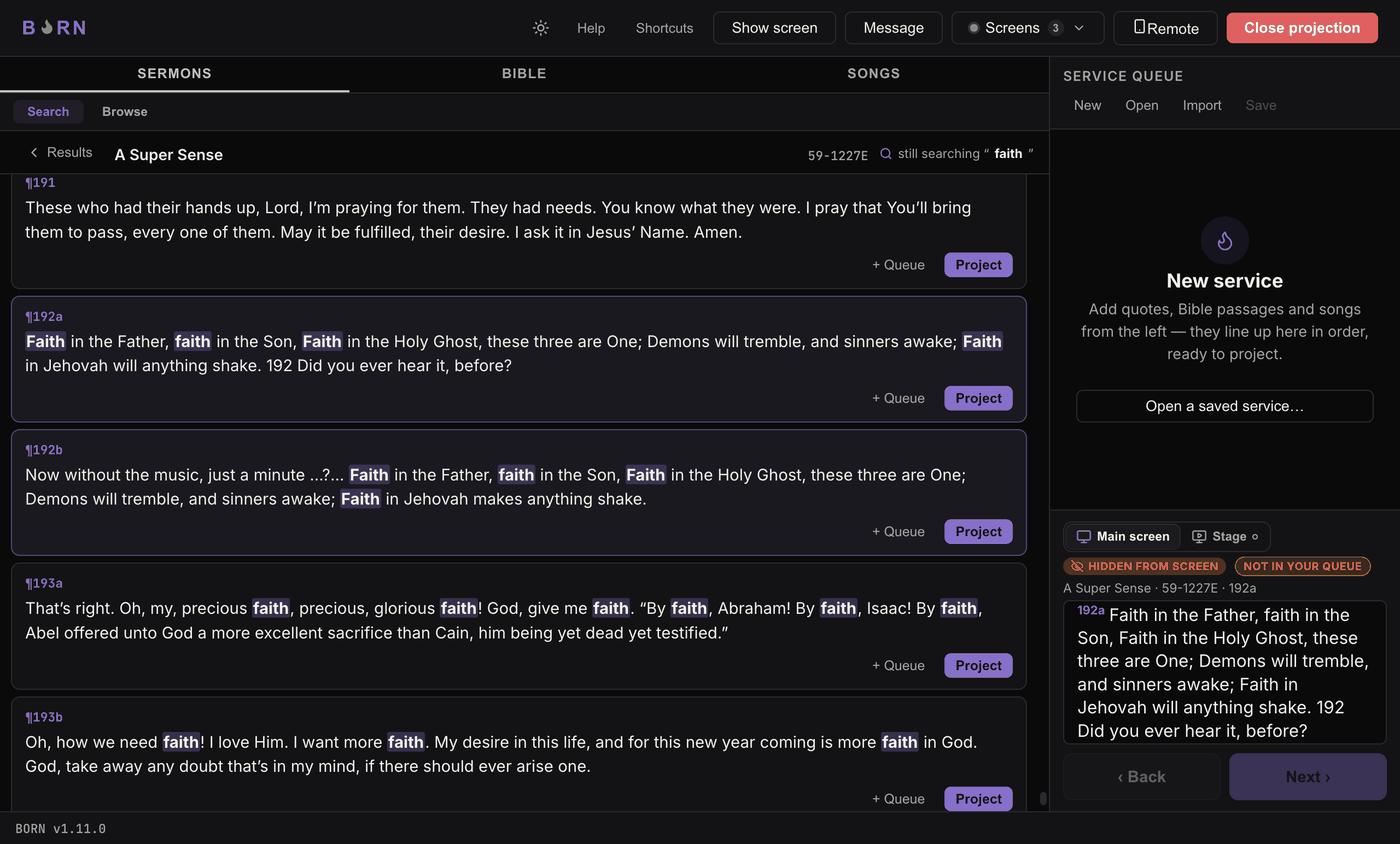
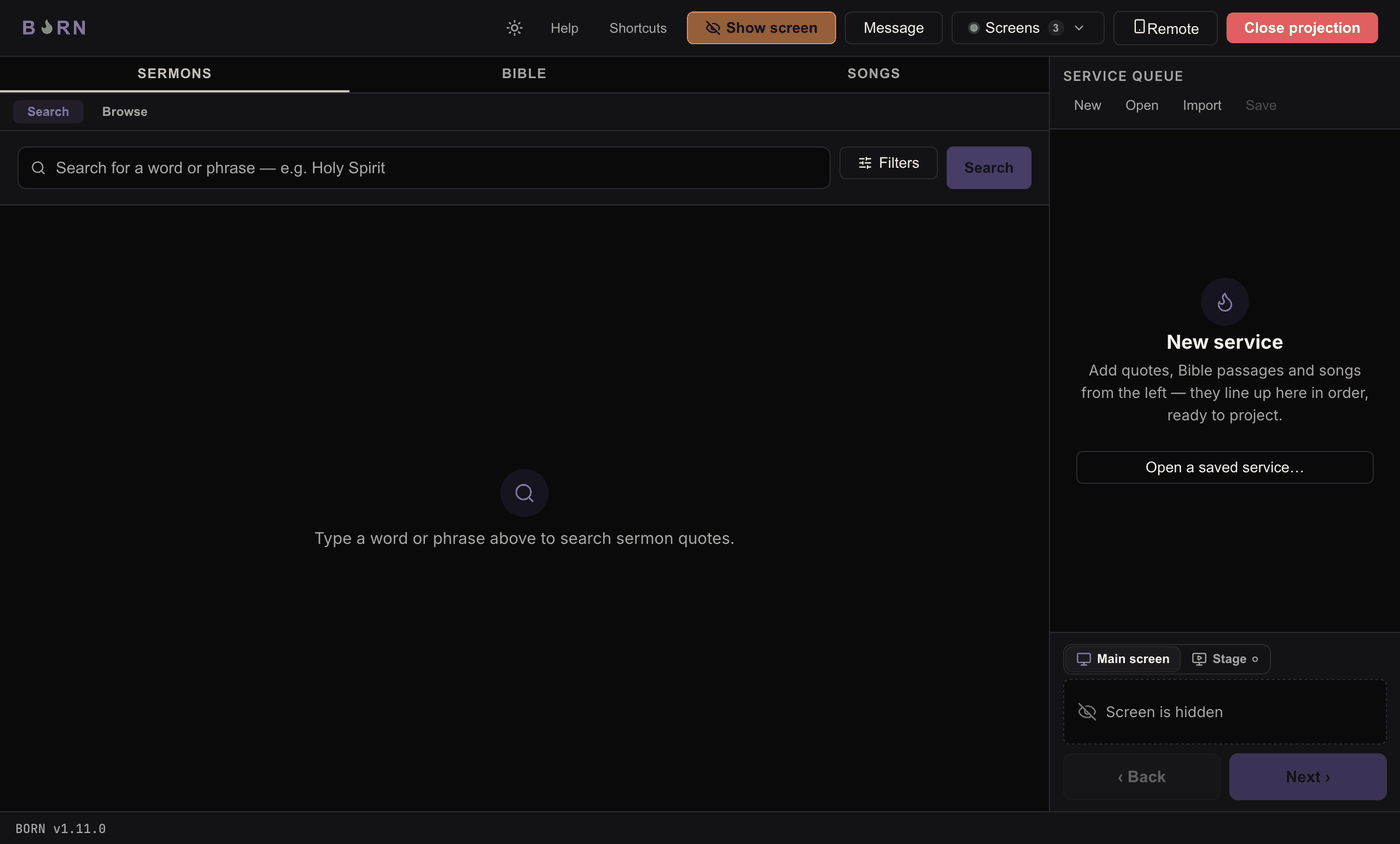
Fix: Hide/Show-screen button now actually turns amber while hidden
.btn-toggle-on was being silently overridden by the later,
equal-specificity .btn-secondary rule, so the button never visually
changed color — only its label did (flagged as a known bug while
writing the manual). Fixed by combining the selectors
(.btn-secondary.btn-toggle-on) so it wins regardless of source order.

Also adds an Eye/EyeOff icon alongside the existing label change, so
the hidden state is never color-only — label, icon, and color all
change together. Verified visually in the running app in both states.

Updates the manual pages that show this button (blank-clear.md,
cheat-sheet.md, troubleshooting/service-day.md) and retakes the two
screenshots of it, since the old ones showed the pre-fix (non-amber)
state and the text had a "not yet verified" caveat that no longer
applies.

diff --git a/src/renderer/src/App.tsx b/src/renderer/src/App.tsx
@@ -1,5 +1,5 @@
 import { useState, useCallback, useEffect, useMemo, useRef } from 'react'
-import { Sun, Moon, Flame } from 'lucide-react'
+import { Sun, Moon, Flame, Eye, EyeOff } from 'lucide-react'
 import SearchBar from './components/SearchBar'
 import ResultsList from './components/ResultsList'
 import SermonFollowView from './components/SermonFollowView'
@@ -1277,10 +1277,15 @@ export default function App() {
           {projectionOpen && (
             <>
               <button
-                className={`btn-secondary${isScreenBlanked ? ' btn-toggle-on' : ''}`}
+                className={`btn-secondary btn-icon-text${isScreenBlanked ? ' btn-toggle-on' : ''}`}
                 onClick={handleToggleBlank}
                 title="Black out the congregation screen (Esc)"
               >
+                {isScreenBlanked ? (
+                  <EyeOff width={14} height={14} strokeWidth={2.2} aria-hidden="true" />
+                ) : (
+                  <Eye width={14} height={14} strokeWidth={2.2} aria-hidden="true" />
+                )}
                 {isScreenBlanked ? 'Show screen' : 'Hide screen'}
               </button>
               <button

diff --git a/src/renderer/src/App.css b/src/renderer/src/App.css
@@ -346,14 +346,18 @@ body {
 }
 
 /* "Show screen" while the output is blanked — filled amber so it's
-   unmistakable that the congregation currently sees nothing. */
-.btn-toggle-on {
+   unmistakable that the congregation currently sees nothing. Combined with
+   .btn-secondary (not just .btn-toggle-on alone) so this wins regardless of
+   CSS source order — a bare .btn-toggle-on rule here was previously being
+   silently overridden by the later, equal-specificity .btn-secondary rule
+   below, so the button never actually changed color, only its label did. */
+.btn-secondary.btn-toggle-on {
   background-color: var(--warn);
   border-color: var(--warn);
   color: var(--on-accent);
   font-weight: 700;
 }
-.btn-toggle-on:hover {
+.btn-secondary.btn-toggle-on:hover {
   background-color: var(--warn);
   opacity: 0.9;
 }

diff --git a/docs/manual/v2/operators/blank-clear.md b/docs/manual/v2/operators/blank-clear.md
@@ -4,16 +4,13 @@
 
 Once the projection window is open, a button appears that reads **Hide screen**.
 Click it (or press **Esc**) to black out the Congregation screen — the congregation
-sees plain black, nothing else. The button now reads **Show screen**; click it (or
-press **Esc** again) to bring back whatever was already projected.
+sees plain black, nothing else. The button now turns solid amber, its icon
+changes to a crossed-out eye, and it reads **Show screen**; click it (or press
+**Esc** again) to bring back whatever was already projected. The color, icon, and
+label all change together — an unmistakable "the congregation currently sees
+nothing" signal, readable at a glance even if you can't tell colors apart.
 
-> **Not yet verified as working:** the button is designed to turn solid amber
-> while the screen is hidden, as an unmistakable "the congregation currently sees
-> nothing" signal. In the running app at the time of writing, it does not
-> visually change color — only its label changes. Rely on the label text
-> ("Show screen" = currently hidden) until this is fixed.
-
-![The Hide screen / Show screen button after clicking — note the label changes to "Show screen" but the amber highlight described in the app's own code does not currently render.](../images/operator-hide-screen-amber.png)
+![The Hide screen / Show screen button in its amber "hidden" state — solid amber fill, crossed-out eye icon, and the "Show screen" label.](../images/operator-hide-screen-amber.png)
 
 This is the button to reach for between items, or any time you want the room's
 attention off the screen — it's deliberately the one thing in BORN that's always in

diff --git a/docs/manual/v2/operators/cheat-sheet.md b/docs/manual/v2/operators/cheat-sheet.md
@@ -22,7 +22,7 @@ sound desk.*
 | Find a song | Click **Songs** → search → **Project** |
 | Move to the next slide | Press **→** or **Space**, or click **Next** |
 | Go back a slide | Press **←**, or click **Back** |
-| Black out the screen | Press **Esc**, or click **Hide screen** — it relabels to **Show screen** while hidden |
+| Black out the screen | Press **Esc**, or click **Hide screen** — it turns amber and relabels to **Show screen** while hidden |
 | Bring it back | Press **Esc** again, or click **Show screen** |
 | Show a one-off announcement | Click **Message** → type it → **Show message** (clears itself after ~10s) |
 
@@ -30,7 +30,7 @@ The line above the Back/Next bar always shows exactly what's on the screen right
 — if it says "Screen is hidden" or "Projection window is closed," that's why nothing
 is showing.
 
-![The Hide screen / Show screen button.](../images/cheat-hide-show-small.png)
+![The Hide screen / Show screen button, amber while hidden.](../images/cheat-hide-show-small.png)
 
 ## If something looks wrong
 

diff --git a/docs/manual/v2/troubleshooting/service-day.md b/docs/manual/v2/troubleshooting/service-day.md
@@ -13,9 +13,9 @@ warning BORN can show.
    Hide/Show-screen controls already? If it still says "Open projection," click it
    — the screen stays black until something is actually projected, which is
    normal, but the *window* itself has to be opened first.
-3. Is the screen showing solid black because it's **hidden**? Check the button's
-   label — if it reads **Show screen**, the screen is currently hidden. Press
-   **Esc** or click it to show.
+3. Is the screen showing solid black because it's **hidden**? The Hide/Show-screen
+   button turns solid amber and reads **Show screen** while hidden. Press **Esc**
+   or click it to show.
 4. Still nothing? Open **Screens** — does the Congregation row show a warning
    line? If so, see [Setup warnings explained](setup-warnings.md).
 
